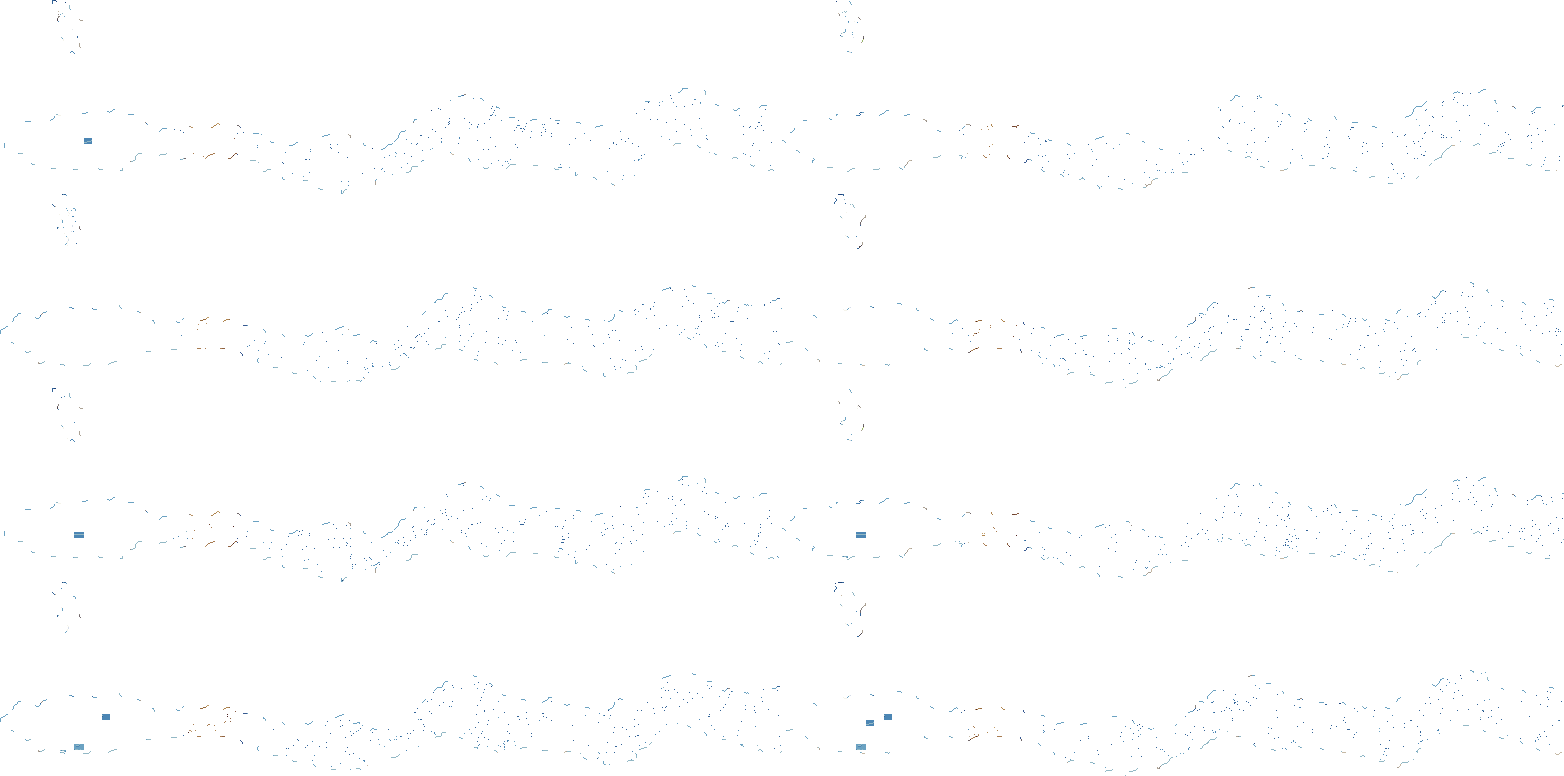
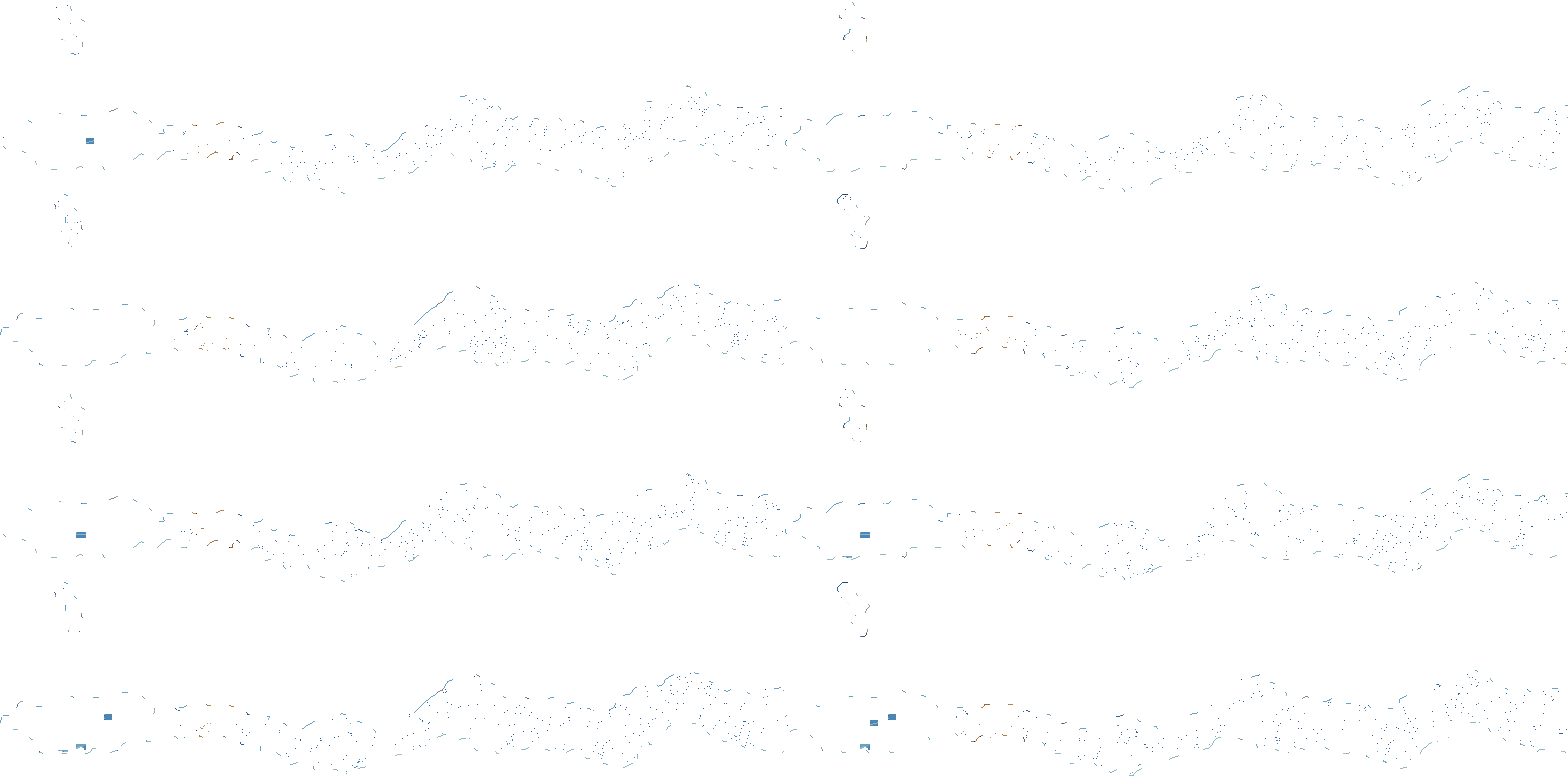
Fix queue 1: second #288 review (S1, rill, verdicts)
S1: the log's broken east end is 3 to 5 splinters of unequal width, lean
and length with roots at different depths; the bark stays on their
outsides, the torn wood shows on the break face, a dark hollow where they
part. Rill: the per-row bank jitter (45-degree zigzags) is replaced by a
slow wander and a coarser bank wobble, so it meanders on the grid; the
bank lobes vary over 7 world px, not 2.6. Reviewer verdict patch applied;
crossroads/ground re-queued (S5, S6 next PR). Changed assets re-recorded
pending; pilot manifest regenerated last (pixels unchanged).

Claude-Session: https://claude.ai/code/session_01UudrmtYkicLNgZeuSjvjrK

diff --git a/scripts/art/native/props.py b/scripts/art/native/props.py
@@ -1184,17 +1184,24 @@ def log_hd(d, length=54, thick=15, seed=71):
     Y, X = np.mgrid[0:Hh, 0:W] + 0.5
     yn = (Y - cy) / R                                # -1 top edge .. 1 bottom edge
     th = np.radians(45) + np.arcsin(np.clip(yn, -1, 1))     # the surface angle: 0 straight up, 90 facing south
-    # the east end broken: a jagged edge
-    # the east end broken off in 4 splinters of different widths and lengths, each tapering to a
-    # point (#288 review S1: the regular zigzag read as a comb)
-    cuts = np.sort(rng.uniform(0.15, 0.85, 3))
-    bands = np.concatenate([[0.0], cuts, [1.0]])
-    lens = rng.uniform(1.2, 4.2, 4) * s
+    # the east end broken off in 3 to 5 splinters (#288 second review S1: four equal symmetric
+    # cones read as stakes): bands of unequal width, each splinter's point off its centre so it
+    # leans, lengths from stubby to long, and the roots at different depths so the break has a
+    # hollow among them
+    ns = int(rng.integers(3, 6))
+    bands = np.concatenate([[0.0], np.cumsum(rng.dirichlet(np.full(ns, 1.6)))])
+    bands[-1] = 1.0
+    lens = rng.permutation(np.linspace(1.0, 5.6, ns) * rng.uniform(0.85, 1.15, ns)) * s
+    pkv = rng.uniform(0.2, 0.8, ns)                     # where along its band each point sits
+    root = rng.uniform(-1.4, 0.4, ns) * s                # the depth each splinter breaks from
     vv = np.clip((Y - (cy - R)) / (2 * R), 0, 1)
-    bi = np.clip(np.searchsorted(bands, vv, side='right') - 1, 0, 3)
-    b0, b1 = bands[bi], bands[np.minimum(bi + 1, 4)]
-    tip = 1 - np.abs(2 * (vv - b0) / np.maximum(1e-3, b1 - b0) - 1)          # 0 at a splinter's sides, 1 at its axis
-    jag = x1 - 2.4 * s + lens[bi] * tip ** 0.8
+    bi = np.clip(np.searchsorted(bands, vv, side='right') - 1, 0, ns - 1)
+    b0, b1 = bands[bi], bands[np.minimum(bi + 1, ns)]
+    fr_ = (vv - b0) / np.maximum(1e-3, b1 - b0)
+    pkb = pkv[bi]
+    tip = np.where(fr_ < pkb, fr_ / pkb, (1 - fr_) / (1 - pkb))         # 0 at a splinter's sides, 1 at its point
+    upper = fr_ < pkb                                                    # its upper facet (towards the light)
+    jag = x1 - 2.4 * s + root[bi] + lens[bi] * np.clip(tip, 0, 1) ** 0.7
     body = (np.abs(yn) <= 1) & (X >= x0) & (X <= jag)
     I = _lambert(-0.12 * (X - (x0 + x1) / 2) / Lw, np.sin(th), np.cos(th))
     t = 2.3 + 2.4 * I
@@ -1257,9 +1264,15 @@ def log_hd(d, length=54, thick=15, seed=71):
     F.put(endm & (erw > 0.88), _bark_fam(rimt), rimt, z=3)
     # the broken east end: each splinter's pale wood in shade, its upper facet lit, its lower side
     # dark, a dark hollow at the root of the break
-    spl = body & (X > x1 - 2.4 * s - 0.2) & (F.z <= 1)
-    tsp = np.where(tip > 0.55, np.where(vv - b0 < (b1 - b0) * 0.5, 3, 2), 1)
-    tsp = np.where(X < x1 - 2.0 * s, 0, tsp)
+    # the splinters keep their bark on the outside; the torn wood shows only on the break face, a
+    # strip just inside each splinter's edge (lit on its upper facet, shaded on its lower), and
+    # where two splinters part the break goes dark into a hollow
+    rx_ = x1 - 2.4 * s + root[bi]                                       # this splinter's root
+    face_w = (0.7 + 0.6 * (1 - tip)) * s
+    spl = body & (X > jag - face_w) & (X > rx_ - 0.6 * s) & (F.z <= 1)
+    tsp = np.where(upper, 3, 2)
+    tsp = np.where(X >= jag - 0.9, tsp - 1, tsp)                         # the torn tip edge
+    tsp = np.where((tip < 0.3) & (X < rx_ + 1.2 * s), 0, tsp)          # the hollow where splinters part
     F.put(spl, np.where(tsp >= 3, 'plaster_warm', 'plaster'), tsp, z=1.2)
     # moss: one mantle along the top, uneven in width, draping over the near flank in two or
     # three rounded lobes; leaf clusters lit on top, a dark tuck where it overhangs (no stems)

diff --git a/scripts/art/native/screen.py b/scripts/art/native/screen.py
@@ -316,9 +316,10 @@ def water_mask_hd(plan: dict, W: int, H: int) -> np.ndarray:
             hw *= 1.0 + taper * (0.3 * np.sin(yw / 11.0 + 1.3) + 0.15 * np.sin(yw / 4.3))
             # the banks' small irregularity (stones, roots, a bitten edge), so no diagonal reads as a
             # regular staircase of steps
-            hb = ((Y * 2654435761) >> 7) & 0xff
-            c += (hb % 5 - 2) * 0.12
-            hw += ((hb >> 3) % 3 - 1) * 0.15
+            # (#288 second review: a per-row jitter read as a run of 45-degree zigzags; the
+            # irregularity is now a slow wander, a few world px long, so the rill meanders)
+            c += 0.35 * np.sin(yw / 1.9 + 1.1) * np.sin(yw / 7.3) + 0.8 * np.sin(yw / 4.4 + 2.0)
+            hw += 0.25 * np.sin(yw / 2.7 + 0.5) * np.sin(yw / 9.1 + 2.0)
             up[Y, :int(110 * D)] = np.maximum(up[Y, :int(110 * D)], np.clip(hw + 0.5 - np.abs(Xw[:int(110 * D)] - c), 0, 1))
     # the river sways a little too (no ruler-straight reach): its columns east of the bridge move
     # up and down by up to 1.6 world px
@@ -345,10 +346,10 @@ def water_mask_hd(plan: dict, W: int, H: int) -> np.ndarray:
     # a bitten, uneven edge (roots, stones, slumped turf): a small noise on the soft edge so a
     # diagonal bank never reads as a staircase of equal steps
     rn = np.random.default_rng(4423).random(soft.shape)
-    wob = ndi.gaussian_filter(rn, 2.2)
+    wob = ndi.gaussian_filter(rn, 1.6 * D)
     wob = (wob - wob.mean()) / max(1e-6, wob.std())
     band = (soft > 0.08) & (soft < 0.92)
-    m = np.where(band, soft + 0.2 * wob, soft) > 0.5
+    m = np.where(band, soft + 0.45 * wob, soft) > 0.5
     m = ndi.binary_fill_holes(m)
     lab, n = ndi.label(m)
     if n:

diff --git a/scripts/art/native/water.py b/scripts/art/native/water.py
@@ -282,9 +282,9 @@ def paint_hd(cv: np.ndarray, mask: np.ndarray, seed: int = 23) -> np.ndarray:
     from . import softedge as SE
     from .terrain import noise as TN
     lawn = (is_fam(cv, 'grass') | is_fam(cv, 'leaf')) & ~mask & ~(wet | bank)
-    reach = TN.vnoise_hd(wx, wy, 2.6, seed + 31) * (D - 1.0)          # the bank keeps 2 texels of face
+    reach = TN.vnoise_hd(wx, wy, 7.0, seed + 31) * (D - 1.0)          # the bank keeps 2 texels of face
     over = (wet | bank) & water_south & (od >= (D + 1.0) - reach + 0.5) & (od > 1.01)
-    reach2 = TN.vnoise_hd(wx, wy, 2.6, seed + 37) * (D - 1.0)
+    reach2 = TN.vnoise_hd(wx, wy, 7.0, seed + 37) * (D - 1.0)
     over |= (wet | bank) & ~water_south & (np.abs(odx) > np.abs(ody)) & (od >= (D + 1.0) - reach2 + 0.5) & (od > 1.01)
     turf = SE.soft(lawn | over, smooth=0.45, min_area=1.0) & ~mask
     over = turf & (wet | bank)
